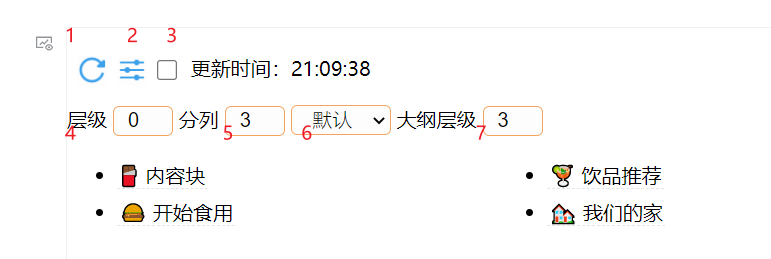
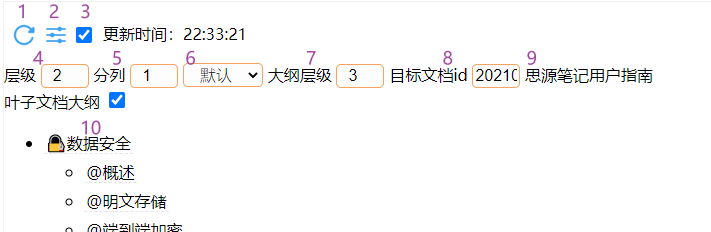
v0.1.0 Release

diff --git a/src/listChildDocsMain.js b/src/listChildDocsMain.js
@@ -814,6 +814,13 @@ document.getElementById("listdepth").addEventListener("change", function(){
         $("#outlinedepthhint, #outlinedepth").css("display", "");
     }
 });
+// 挂件内及时响应分列变化
+document.getElementById("listcolumn").addEventListener("change", function(){
+    if (myPrinter.write2file == 0) {
+        custom_attr.listColumn = $("#listcolumn").val();
+        setColumn();
+    }
+});
 //延时初始化 过快的进行insertblock将会导致思源(v2.1.5)运行时错误
 // setTimeout(__init, 300);
 __init();

diff --git a/README.md b/README.md
@@ -1,6 +1,7 @@
 ## list Child Docs列出子文档
 
-> 当前版本： v0.0.9 **新增**：挂件中或文档中，支持以有序列表的形式创建目录（需更改模式），支持多级序号的目录创建（以全角空格缩进）；**改进&修复**：`默认`模式逻辑（间接修复浏览器、iOS`默认`模式无法点击的问题）；**改进**：`挂件beta`模式浮窗触发方式跟随思源设置（是否需要ctril+悬停触发）；
+> 当前版本： v0.1.0 **新增**：支持为其他文档、笔记本或所有已开启笔记本创建子文档目录；**改进**：改变文档中自定义emoji的插入方式，不再插入图片；**改进**：扩大挂件内子文档链接的点击区域；**改进**：叶子文档大纲转移为挂件独立属性设置；**新增|测试功能**：支持从`widgets/custom.js`导入部分设置项；**新增**：`config.js`全局设置增加可选项——在子文档目录列表中加入返回父文档的链接`../`（仅挂件内）；~~新增~~：文档中任务列表模式【！刷新将创建新任务列表导致任务进度勾选丢失】；**配置文件变更**：详见更新日志CHANGELOG.md；
+> [更新日志（网页）](https://github.com/OpaqueGlass/listChildDocs/blob/main/CHANGELOG.md) 
 > 
 > 插入时模式为`默认`、启用自动刷新、层级1、分栏1、大纲层级3；如要修改插入时默认设置，请参考自定义说明部分。
 >
@@ -39,7 +40,7 @@
 
    设置为1仅列出直接子文档，设置为0列出当前文档大纲，请输入数字；（过多的层级将导致性能下降）
 
-5. 目录列表分栏数（分列数）控制：为1单列，请输入数字；（过多的分栏可能排版效果不佳）
+5. 目录列表分栏数（分列数）控制：为1单列，请输入数字；（过多的分栏可能排版效果不好）
 
    > 当屏幕宽度过窄时（<=768px），挂件中分栏设定将会被忽略，只允许显示1列；
 
@@ -64,17 +65,33 @@
       - `1.挂件`：（挂件中）有序列表展示“引用块”（悬停时触发浮窗，不稳定）；
 
       - ……
-
+   3. ~~任务列表~~ 
+      
+      - ~~`任务列表`：（文档中）~~ 【已知问题！刷新将创建一个新的任务列表，导致丢失任务的完成信息】（建议使用模板完成创建）；
 
 7. 大纲层级：列出大纲时，设定大纲的显示层级数；
 
-> 需要现将子文档目录层级设置为0并双击刷新按钮保存设置后，才会显示大纲层级设定（层级数为实际层级，与h1h2无关）。
+> 层级数为实际层级，与h1h2无关。大纲层级选项只在勾选“叶子文档大纲” 或层级设定为`0`的情况下显示。
 >
-> 如果在自定义设置中，选择列出终端文档的大纲，此项只控制大纲的显示层级。
+> 如果勾选“叶子文档大纲”，此项只控制大纲的显示层级。
 
 \*注：文档中分栏使用超级块实现。
 
+8. 目标文档id：在这里指定创建其他文档id、笔记本id或所有已开启笔记本的子文档目录列表；
+
+   如果需要指定其他文档、笔记本，在这里粘贴id；如果要为所有已开启笔记本创建，在这里输入`/`或`\`；
+
+9. 目标文档/笔记本名：如果指定了目标文档id，成功刷新后这里显示对应的文档名/笔记本名；
+
+10. 叶子文档大纲：在目录列表中的叶子页面下加入该文档的大纲；
+
+   勾选后，可以通过大纲层级设定大纲的层级数；为了区分大纲和子文档链接，大纲前用"@"标识，如要更改或删除“@”，请参考自定义设置更改`outlineDistinguishingWords`；
+
+   ==刷新时间较长，不建议开启== 
+
 ### 自定义说明
+
+#### 在`config.js`中直接更改设置
 
 打开`${思源data目录}\widgets\listChildDocs\src\config.js`，设置项说明请参考各配置项旁边的注释。举例：在此文档可以修改：
 
@@ -82,13 +99,13 @@
 
 - 创建（插入）挂件时的默认参数（分列数、层级数、模式、是否自动刷新）`custom_attr`（如果写入文档，不建议将auto的默认值设定为true）；
 
-- 一并生成叶子文档的大纲目录：`showEndDocOutline`；默认禁用
-
-  （刷新慢，挂件中生成目录时体验极差）
-
 - 安全模式`safeMode`：默认启用。
 
   启用后，挂件将不对文档中的目录进行自动刷新，防止同步过程中自动刷新导致同步冲突/覆盖；（如果使用同步，建议启用安全模式[^4]）；
+
+- 只读安全模式`safeModePlus`：默认禁用（未来稳定后将默认启用）。
+
+  启用后，当挂件检测到目前是历史预览页面、启用了只读模式或挂件所在文档页签不存在时，将禁止挂件刷新文档中的目录。拦截到刷新文档目录的操作时，将在挂件内输出错误提示。
 
 - 挂件中展示目录时，根据目录长度自动更改挂件高度： `autoHeight`；默认禁用；
 
@@ -98,13 +115,17 @@
 
 - 写入自定义emoji图片：`customEmojiEnable`；默认启用【暂不支持网络emoji图片】；
 
+- 在挂件中显示返回父文档的链接`backToParent`：默认仅在屏幕宽度<=768px的设备启用；
+
 【不常用】
 
-- 超级块分列（分栏）时在缩进位置折断：`divideColumnAtIndent`；
+- 超级块分列（分栏）时在缩进位置折断`divideColumnAtIndent`： 默认禁用；
 
-- 新的超级块构成方式beta：`superBlockBeta`；
+  （文档中）启用后，会在缩进位置分列，可能可以解决分列后每列长度不均的问题；
 
-- 刷新列表后重写属性`inheritAttrs`；
+- 新的超级块构成方式beta：`superBlockBeta`：默认启用；
+
+- 刷新列表后重写属性`inheritAttrs`：默认启用；
 
 - 刷新后属性写入列表对应HTML元素的属性类型`includeAttrName`；
 
@@ -112,15 +133,56 @@
 
   默认仅用于windows，不适用于ios和Android。其他平台未测试，如要使用，请手动更改；
 
+- 扩大挂件内子文档链接有效点击范围`extendClickArea`：默认启用；
+
 - ....其他设置；
 
-### 使用举例
+#### 在`custom.js`中覆盖设置
 
-有些主题支持将文档中的无序列表显示为导图/表格。理论上v0.0.5+版本可以在刷新后保留相关属性设定，即刷新后仍然展示为导图/表格。
+> 测试中，可能存在缺陷。理论上，即使更新挂件，这里进行覆盖的设置仍然可以保留。
 
-注：如果视图更改为导图/表格，请不要使用分列，请将分列数设置为1。
+创建或编辑`${思源data目录}/widgets/custom.js`，仅支持`config.js`文件中`custom_attr`（创建挂件时的默认设置）、`setting`（全局设置）下的设置项，以下是一个示例。
 
-> 在此前的版本，刷新目录列表后将丢失自定义属性，现在相关属性将在刷新后重写，并将`custom-f`属性写入对应元素。
+```javascript
+/*方式1：若之前有config，需要添加listChildDocs的部分*/
+export const config = {
+    token: "",
+    xxxx:{ // 其他挂件的设置
+        /*其他挂件的设置*/
+    },
+    // 增加listChildDocs的设置
+    listChildDocs: {
+        setting: { // 这里的设置项对应config.js中的setting，具体设置项请参考config.js中的说明
+            backToParent: "false", // 禁用显示../返回父文档链接（"auto"仅窄屏设备显示）
+            autoHeight: true, // 启用挂件内自动高度
+            safeMode: false, // 关闭安全模式【！若使用同步，请注意：关闭安全模式&启用自动刷新可能导致同步冲突】
+            outlineDistinguishingWords: "", // 混合列出（i.e.叶子文档大纲启用）时，区分大纲的提示词
+            emojiEnable: false, // 禁用插入emoji
+        },
+        custom_attr: {// 这里的设置项对应config.js中的custom_attr，是创建挂件时的默认设置，具体设置项请参考config.js中的说明
+          printMode: "2", // url模式，其他模式见config.js结尾处说明
+          listDepth: 2, // 层级深度为2
+          listColumn: 1, // 目录列表分栏数为1
+        }
+    }
+};
+```
+
+```javascript
+/*方式2：为listChildDocs单独export*/
+export const listChildDocs = {
+    setting: { // 这里的设置项对应config.js中的setting，具体设置项请参考config.js中的说明
+        backToParent: "false",// 禁用显示../返回父文档链接（"auto"仅窄屏设备显示）
+        autoHeight: true, // 挂件内自动高度
+        safeMode: false, // 关闭安全模式
+    },
+    custom_attr: {// 这里的设置项对应config.js中的custom_attr，是创建挂件时的默认设置，具体设置项请参考config.js中的说明
+      printMode: "2", // url模式，其他模式见config.js结尾处说明
+      listDepth: 2, // 层级深度为2
+      listColumn: 1, // 目录列表分栏数为1
+    }
+}
+```
 
 ## ⚠注意
 
@@ -138,10 +200,8 @@
   - 若刷新前为超级块，将随机选择一个无序列表子块的属性进行重写；
   - 如要删除属性，建议直接删除超级块；
 - 关于写入自定义emoji图片：
-  - 挂件以图片的方式写入的自定义emoji，有一些边距导致对齐效果不好；
   - 请避免图片路径包括特殊符号，例如`()%& `，如果包括，不能确定实际效果;
-  - 自定义emoji不在assets下，不是资源文件，会有网络图片角标（设置-编辑器-是否显示网络图片角标）；
-  - 不建议使用网络Emoji；
+  - 暂不支持网络emoji；
 
 
 
@@ -149,14 +209,17 @@
 
 请到github仓库[新建issue](https://github.com/OpaqueGlass/listChildDocs/issues/new/choose)。您也可以[在这里](https://github.com/OpaqueGlass/listChildDocs/releases)下载历史版本。
 
+如您无法访问github仓库，请直接在ld246社区发帖，并@Undii。
+
 ## 参考&感谢
 
 本挂件使用/参考了以下大佬的项目：
 
-| 开发者                                      | 项目                                                     | 开源协议                                                     | 备注                 |
-| ------------------------------------------- | -------------------------------------------------------- | ------------------------------------------------------------ | -------------------- |
-| [leolee9086](https://github.com/leolee9086) | [cc-template](https://github.com/leolee9086/cc-template) | [木兰宽松许可证， 第2版](https://github.com/leolee9086/cc-template/blob/main/LICENSE) | 在挂件中展示“引用块“ |
-| [InEase](https://github.com/InEase)         | [Note Map](https://github.com/InEase/SiYuan-Xmind)       | N/A                                                          | API使用方式          |
+| 开发者                                            | 项目                                                         | 开源协议                                                     | 备注                      |
+| ------------------------------------------------- | ------------------------------------------------------------ | ------------------------------------------------------------ | ------------------------- |
+| [leolee9086](https://github.com/leolee9086)       | [cc-template](https://github.com/leolee9086/cc-template)     | [木兰宽松许可证， 第2版](https://github.com/leolee9086/cc-template/blob/main/LICENSE) | 在挂件中展示“引用块“      |
+| [InEase](https://github.com/InEase)               | [Note Map](https://github.com/InEase/SiYuan-Xmind)           | N/A                                                          | API使用方式               |
+| [Zuoqiu-Yingyi](https://github.com/Zuoqiu-Yingyi) | [widget-query](https://github.com/Zuoqiu-Yingyi/widget-query) | AGPL-3.0                                                     | 从custom.js导入自定义设置 |
 
 以下大佬参与代码贡献：
 

diff --git a/CHANGELOG.md b/CHANGELOG.md
@@ -1,5 +1,19 @@
 ## 更新日志
 
+### v0.1.0 (2022-12-28)
+
+- 新增：支持为其他文档、笔记本、所有已打开的笔记本创建子文档目录；[#22](https://github.com/OpaqueGlass/listChildDocs/issues/22)
+- 改进：改变文档中自定义emoji插入方式；[#23](https://github.com/OpaqueGlass/listChildDocs/issues/23)
+- 新增：（beta）支持从`widgets/custom.js`导入部分设置项；[#24](https://github.com/OpaqueGlass/listChildDocs/issues/24)
+- 改进：扩大挂件内子文档链接有效点击区域；[#25](https://github.com/OpaqueGlass/listChildDocs/issues/25)
+- 改进：叶子文档大纲转移为挂件独立属性；
+- 修复：引用块模式下，`'`未转义的问题；
+- 新增：文档中任务列表模式；【！已知问题：刷新将创建新列表导致任务进度勾选丢失】
+- `config.js`文件全局设置变更：
+  - 新增：`safeModePlus`检测挂件是否在只读模式下，拦截刷新文档内目录的操作；
+  - 停用（移除）：`showEndDocOutline`叶子文档大纲全局设定，此项保留用于设置迁移；
+  - 新增：`height_2widget_min` `height_2widget_max`自动高度启用时挂件最小、最大高度；
+  - 新增：`backToParent`在子文档列表中加入返回父文档的链接`../`；
 
 ### v0.0.9 (2022-11-8)
 
